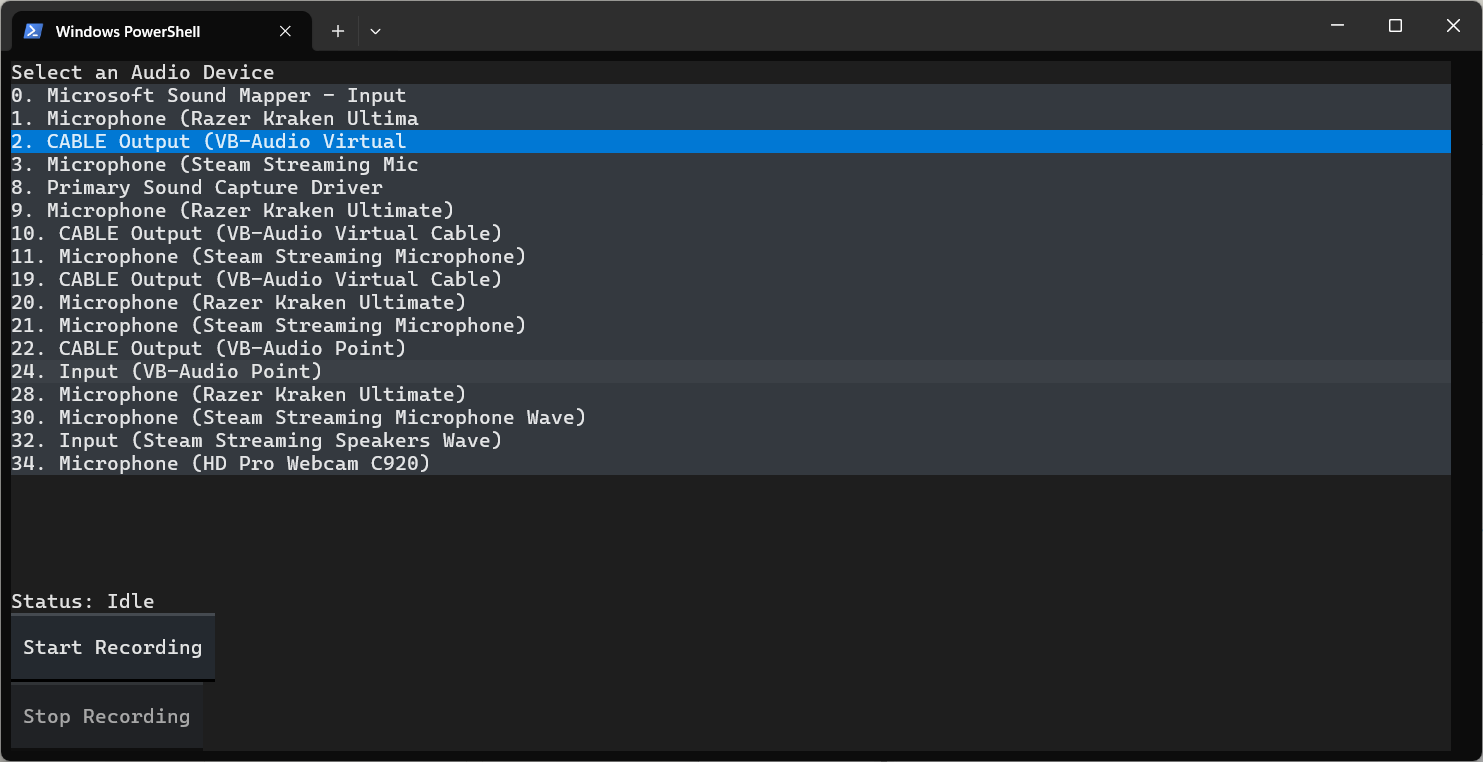
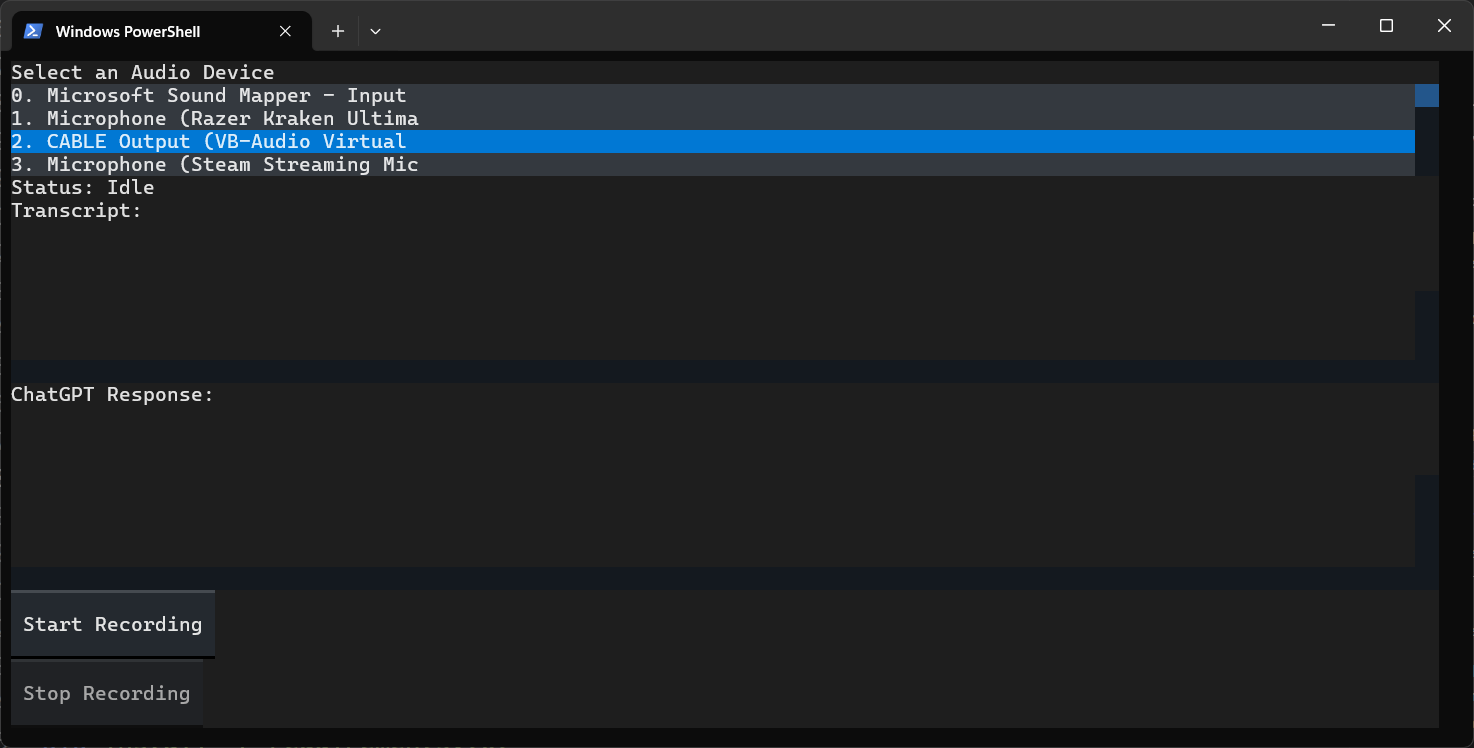
Add environment variable support and integrate ChatGPT for transcription analysis
- Introduced .env file for API key management
- Enhanced main.py to load OpenAI API key and handle GPT responses
- Updated UI to display ChatGPT responses alongside transcriptions
- Modified .gitignore to exclude new output files
- Updated README to reflect new features and requirements

diff --git a/main.py b/main.py
@@ -1,10 +1,24 @@
+from dotenv import load_dotenv
+import os
+
+# Load environment variables from .env file
+load_dotenv()
+
+# Get OpenAI API key from environment
+OPENAI_API_KEY = os.getenv('OPENAI_API_KEY')
+if not OPENAI_API_KEY:
+    raise ValueError("OpenAI API key not found in environment variables")
+
 from textual.app import App
-from textual.widgets import Button, Static, ListView, ListItem
+from textual.widgets import Button, Static, ListView, ListItem, Log
+from textual.containers import VerticalScroll
+import openai
 from textual.reactive import Reactive
 import pyaudio
 import wave
 import threading
 from faster_whisper import WhisperModel
+import asyncio
 
 import os
 import numpy as np
@@ -44,31 +58,41 @@ def list_audio_devices():
 class RecorderApp(App):
     recording_status: Reactive[str] = Reactive("Idle")
     transcribed_text: Reactive[str] = Reactive("")
+    gpt_response: Reactive[str] = Reactive("")
     start_time = 0
     device_list = list_audio_devices()
     audio_file = "output.wav"
     transcript_file = "transcription.txt"
+    last_processed_text = ""  # Track last processed text
     
     async def on_mount(self) -> None:
-        # Show available audio devices
+        # Create containers for transcript and response
+        self.transcript_container = VerticalScroll(Static("Transcript:", id="transcript_label"))
+        self.response_container = VerticalScroll(Static("ChatGPT Response:", id="response_label"))
+        
+        # Initialize widgets
         self.device_selection_view = ListView(
             *[ListItem(Static(f"{i}. {name}"), id=f"device_{i}") for i, name in self.device_list],
             name="device_list"
         )
         self.status = Static(f"Status: {self.recording_status}", name="status")
-        self.transcript = Static(self.transcribed_text, name="transcript")
+        self.transcript = Log(auto_scroll=True, name="transcript")
+        self.gpt_response_widget = Log(auto_scroll=True, name="gpt_response")
         self.start_button = Button(label="Start Recording", name="start")
         self.stop_button = Button(label="Stop Recording", name="stop")
 
-        # Disable the buttons until a device is selected
+        # Disable buttons until device is selected
         self.start_button.disabled = True
         self.stop_button.disabled = True
 
-        # Mount the widgets to the layout
+        # Mount widgets
         await self.mount(Static("Select an Audio Device", id="title"))
         await self.mount(self.device_selection_view)
         await self.mount(self.status)
+        await self.mount(self.transcript_container)
         await self.mount(self.transcript)
+        await self.mount(self.response_container)
+        await self.mount(self.gpt_response_widget)
         await self.mount(self.start_button, self.stop_button)
 
     async def on_list_view_selected(self, message: ListView.Selected) -> None:
@@ -100,16 +124,13 @@ class RecorderApp(App):
             self.start_button.disabled = False
             self.stop_button.disabled = True
 
-            # # Wait for all audio data to be transcribed
-            # while not audio_queue.empty():
-            #     pass
-
-            # Save the transcription to a text file
+            # Save both transcript and GPT response
             with open(self.transcript_file, "w") as f:
                 f.write(self.transcribed_text)
+            with open("gpt_response.txt", "w") as f:
+                f.write(self.gpt_response)
 
-            # Update UI status
-            self.recording_status = f"Recording saved as {self.audio_file}, transcription saved as {self.transcript_file}"
+            self.recording_status = f"Recording saved as {self.audio_file}, transcription and analysis saved"
 
     def record_audio(self) -> None:
         # Create a new wave file to write audio data to
@@ -134,6 +155,7 @@ class RecorderApp(App):
 
     def transcribe_audio(self) -> None:
         full_audio = []
+        has_new_content = False
         while recording or not audio_queue.empty():
             try:
                 data = audio_queue.get(timeout=1)  # Get data from the queue
@@ -148,10 +170,19 @@ class RecorderApp(App):
                                                         beam_size=5,
                                                         word_timestamps=False,
                                                         vad_parameters=dict(min_silence_duration_ms=500))
-                        for segment in segments:
-                            self.transcribed_text += "[%.2fs -> %.2fs] %s" % (self.start_time, self.start_time+segment.end, segment.text) + " \n"
-                            self.start_time += segment.end
-                        self.refresh_transcription()
+                        
+                        # Check if we got any segments
+                        segment_list = list(segments)
+                        if segment_list:  # Only process if we have segments
+                            has_new_content = True
+                            for segment in segment_list:
+                                self.transcribed_text += "[%.2fs -> %.2fs] %s" % (self.start_time, self.start_time+segment.end, segment.text) + " \n"
+                                self.start_time += segment.end
+                            
+                            # Only refresh if we have new content
+                            if has_new_content:
+                                self.refresh_transcription()
+                                has_new_content = False
                     except Exception as e:
                         self.recording_status = f"Transcription error: {e}"
                     full_audio = []  # Clear buffer after transcription
@@ -159,7 +190,43 @@ class RecorderApp(App):
                 pass
 
     def refresh_transcription(self) -> None:
-        self.transcript.update(self.transcribed_text)
+        self.transcript.write(self.transcribed_text)
+        # Only call GPT if we have new content and enough text
+        if (len(self.transcribed_text) > 50 and 
+            self.transcribed_text != self.last_processed_text):
+            self.last_processed_text = self.transcribed_text
+            threading.Thread(target=self._async_gpt_call).start()
+
+    def _async_gpt_call(self):
+        async def _get_response():
+            response = await self.get_gpt_response(self.transcribed_text)
+            self.gpt_response = response
+            self.gpt_response_widget.write(response)
+
+        # Create new event loop for the thread
+        loop = asyncio.new_event_loop()
+        asyncio.set_event_loop(loop)
+        loop.run_until_complete(_get_response())
+        loop.close()
+
+    async def get_gpt_response(self, text: str) -> str:
+        try:
+            # Initialize OpenAI 4th API key from environment
+            client = openai.Client(api_key=OPENAI_API_KEY)
+            
+            # Send request to ChatGPT
+            response = await asyncio.to_thread(
+                lambda: client.chat.completions.create(
+                    model="gpt-4o",
+                    messages=[
+                        {"role": "system", "content": "You are an interviewer and now you are interviewing with Google."},
+                        {"role": "user", "content": f"Please Answer this interview question:\n{text}"}
+                    ]
+                )
+            )
+            return response.choices[0].message.content
+        except Exception as e:
+            return f"Error getting GPT response: {str(e)}"
 
     def watch_recording_status(self, recording_status: str) -> None:
         self.status.update(f"Status: {recording_status}")

diff --git a/readme.md b/readme.md
@@ -1,36 +1,30 @@
 # Real-Time-Transcription
 
-A Python-based application that records audio from selected input devices and provides real-time transcription using the Faster Whisper model. Built with Textual for a terminal user interface.
+A Python application for real-time audio transcription using Whisper model and summarize using ChatGPT4o, featuring a terminal-based interface built with Textual.
 
 ## Interface Screenshot
 
 ![Application Interface](./runtime_screenshot.png)
 
-The terminal interface provides:
-- A list of available audio input devices
-- Current recording status
-- Start/Stop recording buttons
-- Real-time transcription display
-
 ## Features
 
-- List and select from available audio input devices
-- Real-time audio recording
-- Live transcription using Faster-Whisper
-- Terminal-based user interface
-- Save recordings as WAV files
-- Export transcriptions to text files
+- Real-time audio recording, transcription and summarization
+- Terminal-based user interface with:
+  - Recording status indicator
+  - Start/Stop recording controls
+  - Live transcription and summarization display
+- Save transcriptions and summarization to text files
 
 ## Requirements
 
-- Python 3.11
-- CUDA-compatible GPU for optimal transcription performance
-- Audio input device
+- Python 3.11+
+- CUDA-compatible GPU (recommended)
+
 
 ## Installation
 
 1. Clone the repository
-2. Install the required dependencies:
+2. Install dependencies:
 ```bash
 pip install -r requirements.txt
 ```
